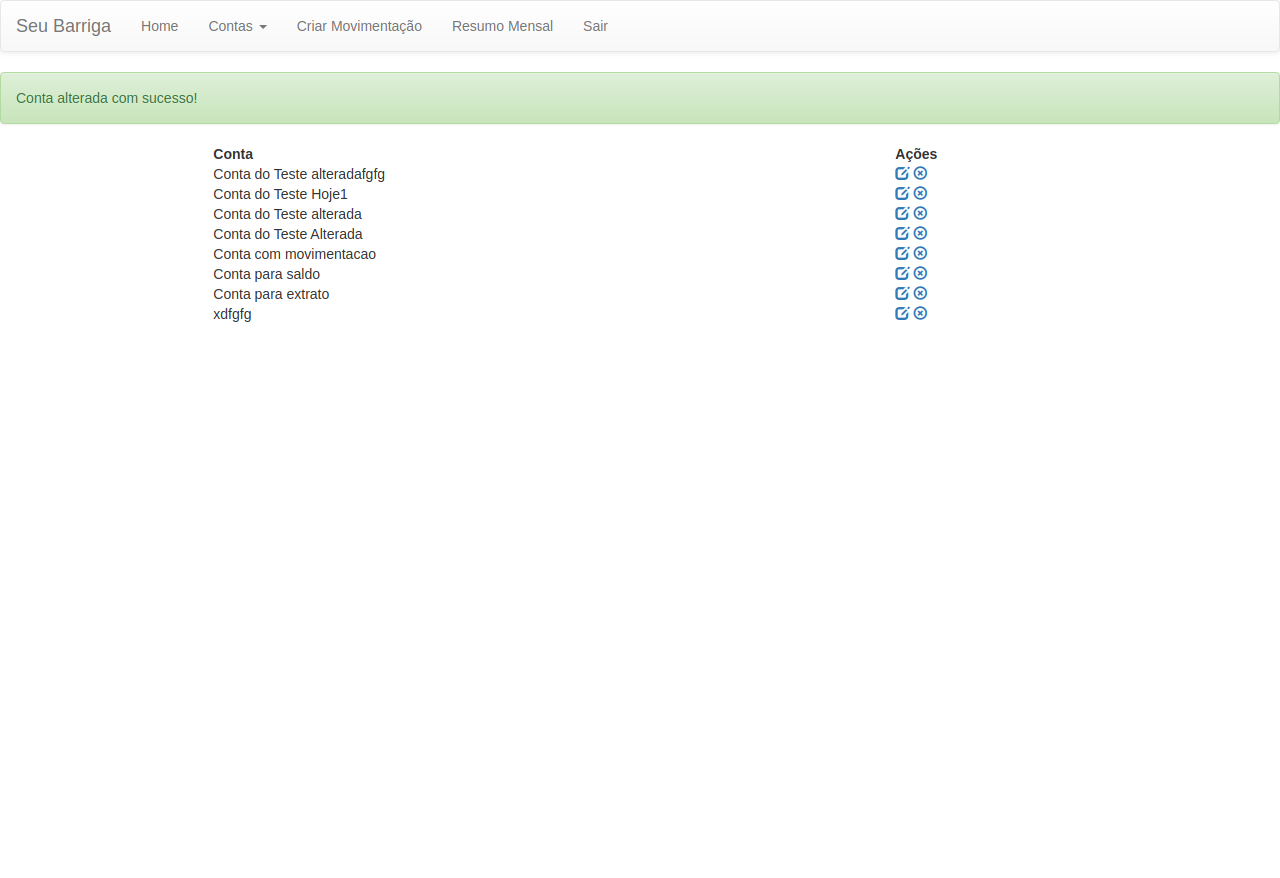
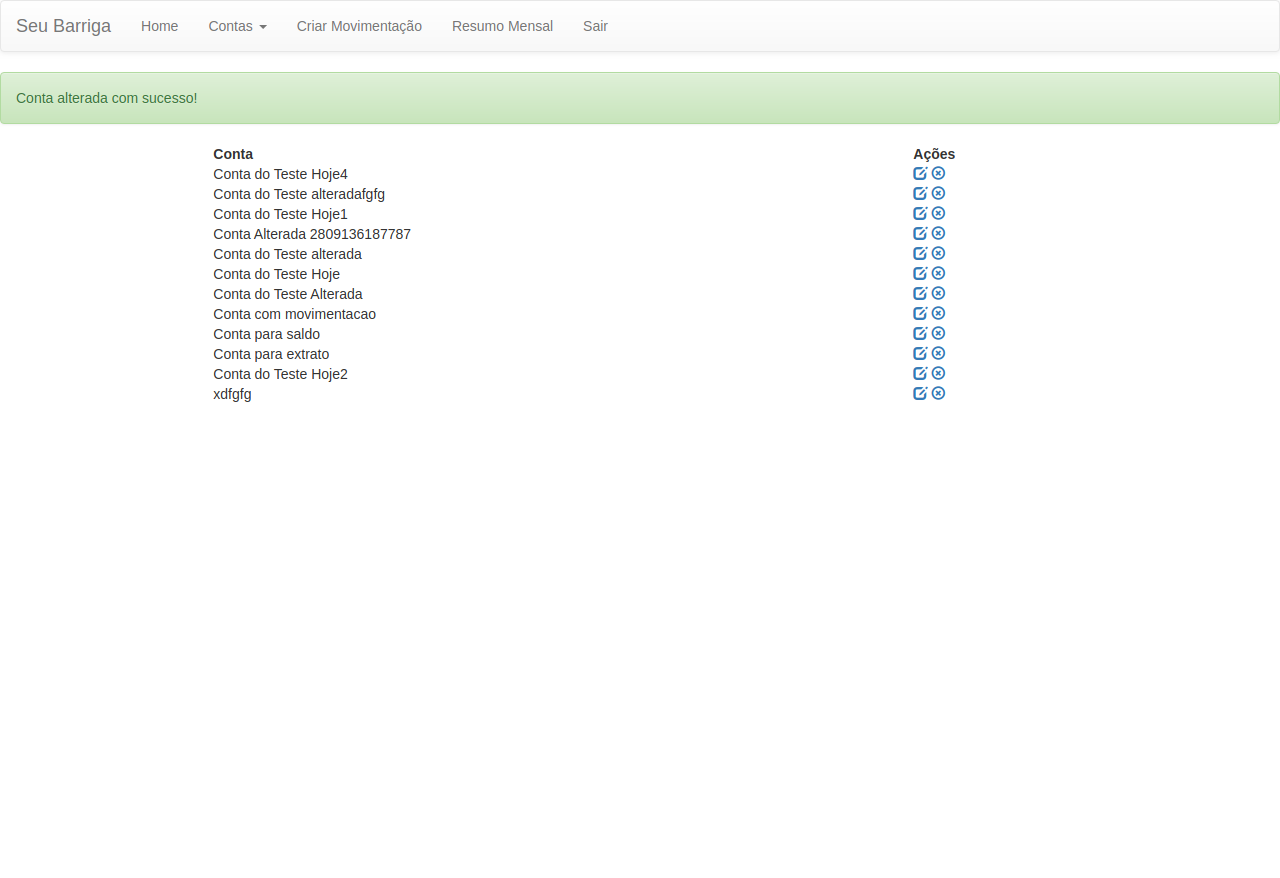
Melhorando a velocidade de execução

Changed region(s): [[0.1562, 0.1845, 0.3125, 0.4613], [0.6875, 0.1538, 0.75, 0.4613]]

diff --git a/src/main/java/tests/ContaTest.java b/src/main/java/tests/ContaTest.java
@@ -1,6 +1,7 @@
 package tests;
 
 import core.BaseTest;
+import core.Propriedades;
 import org.junit.Assert;
 import org.junit.FixMethodOrder;
 import org.junit.Test;
@@ -18,7 +19,7 @@ public class ContaTest extends BaseTest {
     public void test1_InserirConta(){
         menuPage.acessarTelaInserirConta();
 
-        contasPage.setNome("Conta do Teste Hoje");
+        contasPage.setNome("Conta do Teste Hoje3");
         contasPage.salvar();
 
         Assert.assertEquals("Conta adicionada com sucesso!", contasPage.obterMensagemSucesso());
@@ -28,8 +29,8 @@ public class ContaTest extends BaseTest {
     public void test2_AlterarConta(){
         menuPage.acessarTelaListarConta();
 
-        contasPage.clicarAlterarConta("Conta do Teste Hoje");
-        contasPage.setNome("Conta do Teste Hoje1");
+        contasPage.clicarAlterarConta("Conta do Teste Hoje3");
+        contasPage.setNome(Propriedades.NOME_CONTA_ALTERADA);
         contasPage.salvar();
 
         Assert.assertEquals("Conta alterada com sucesso!", contasPage.obterMensagemSucesso());
@@ -39,7 +40,7 @@ public class ContaTest extends BaseTest {
     public void test3_InserirContaMesmoNome(){
         menuPage.acessarTelaInserirConta();
 
-        contasPage.setNome("Conta do Teste Hoje1");
+        contasPage.setNome(Propriedades.NOME_CONTA_ALTERADA);
         contasPage.salvar();
 
         Assert.assertEquals("Já existe uma conta com esse nome!", contasPage.obterMensagemSemSucesso());

diff --git a/src/main/java/tests/MovimentacaoTest.java b/src/main/java/tests/MovimentacaoTest.java
@@ -2,6 +2,7 @@ package tests;
 
 import core.BasePage;
 import core.BaseTest;
+import core.Propriedades;
 import org.junit.Assert;
 import org.junit.FixMethodOrder;
 import org.junit.Test;
@@ -28,7 +29,7 @@ public class MovimentacaoTest extends BaseTest {
         movimentacaoPage.setDescricao("Movimentação do Teste");
         movimentacaoPage.setInteressado("Interessado Qualquer");
         movimentacaoPage.setValor("500");
-        movimentacaoPage.setConta("Conta do Teste Hoje1");
+        movimentacaoPage.setConta(Propriedades.NOME_CONTA_ALTERADA);
         movimentacaoPage.setStatusPago();
         movimentacaoPage.salvar();
 
@@ -60,7 +61,7 @@ public class MovimentacaoTest extends BaseTest {
         movimentacaoPage.setDescricao("Movimentação do Teste");
         movimentacaoPage.setInteressado("Interessado Qualquer");
         movimentacaoPage.setValor("500");
-        movimentacaoPage.setConta("Conta do Teste Hoje1");
+        movimentacaoPage.setConta(Propriedades.NOME_CONTA_ALTERADA);
         movimentacaoPage.setStatusPago();
         movimentacaoPage.salvar();
 

diff --git a/src/main/java/suites/SuiteGeral.java b/src/main/java/suites/SuiteGeral.java
@@ -1,7 +1,12 @@
 package suites;
 
+import core.DriverFactory;
+import org.junit.AfterClass;
+import org.junit.Before;
+import org.junit.BeforeClass;
 import org.junit.runner.RunWith;
 import org.junit.runners.Suite;
+import pages.LoginPage;
 import tests.ContaTest;
 import tests.MovimentacaoTest;
 import tests.RemoverMovimentacaoContaTest;
@@ -14,5 +19,21 @@ import tests.ResumoTest;
         RemoverMovimentacaoContaTest.class,
         ResumoTest.class
 })
+
 public class SuiteGeral {
+    private static LoginPage page = new LoginPage();
+
+    @BeforeClass
+    public static void inicializar(){
+        page.acessarTelaInicial();
+
+        page.setEmail("wagner@costa");
+        page.setSenha("123456");
+        page.entrar();
+    }
+
+    @AfterClass
+    public static void finaliza(){
+        DriverFactory.killDriver();
+    }
 }

diff --git a/src/main/java/tests/RemoverMovimentacaoContaTest.java b/src/main/java/tests/RemoverMovimentacaoContaTest.java
@@ -1,6 +1,7 @@
 package tests;
 
 import core.BaseTest;
+import core.Propriedades;
 import org.junit.Assert;
 import org.junit.Test;
 import pages.ContasPage;
@@ -15,7 +16,7 @@ public class RemoverMovimentacaoContaTest extends BaseTest {
     public void testExcluirContaComMovimentacao(){
         menuPage.acessarTelaListarConta();
 
-        contasPage.clicarExcluirConta("Conta do Teste Hoje1");
+        contasPage.clicarExcluirConta(Propriedades.NOME_CONTA_ALTERADA);
 
         Assert.assertEquals("Conta em uso na movimentações", contasPage.obterMensagemSemSucesso());
     }

diff --git a/src/main/java/tests/SaldoTest.java b/src/main/java/tests/SaldoTest.java
@@ -1,6 +1,7 @@
 package tests;
 
 import core.BaseTest;
+import core.Propriedades;
 import org.junit.Assert;
 import org.junit.Test;
 import pages.HomePage;
@@ -10,6 +11,6 @@ public class SaldoTest extends BaseTest {
 
     @Test
     public void testSaldoConta(){
-        Assert.assertEquals("500.00", homePage.obterSaldoConta("Conta do Teste Hoje1"));
+        Assert.assertEquals("500.00", homePage.obterSaldoConta(Propriedades.NOME_CONTA_ALTERADA));
     }
 }

diff --git a/src/main/java/core/BaseTest.java b/src/main/java/core/BaseTest.java
@@ -22,15 +22,6 @@ public class BaseTest {
     @Rule
     public TestName testName = new TestName();
 
-    @Before
-    public void inicializar(){
-        page.acessarTelaInicial();
-
-        page.setEmail("wagner@costa");
-        page.setSenha("123456");
-        page.entrar();
-    }
-
     @After
     public void finaliza() throws IOException {
         TakesScreenshot ss = (TakesScreenshot) getDriver();

diff --git a/src/main/java/core/Propriedades.java b/src/main/java/core/Propriedades.java
@@ -2,5 +2,7 @@ package core;
 
 public class Propriedades {
 
-    public static boolean FECHAR_BROWSER = true;
+    public static boolean FECHAR_BROWSER = false;
+    public static String NOME_CONTA_ALTERADA = "Conta Alterada " + System.nanoTime();
+
 }

diff --git a/src/main/java/core/DriverFactory.java b/src/main/java/core/DriverFactory.java
@@ -4,6 +4,8 @@ import org.openqa.selenium.Dimension;
 import org.openqa.selenium.WebDriver;
 import org.openqa.selenium.chrome.ChromeDriver;
 
+import java.util.concurrent.TimeUnit;
+
 public class DriverFactory {
     private static WebDriver driver;
 
